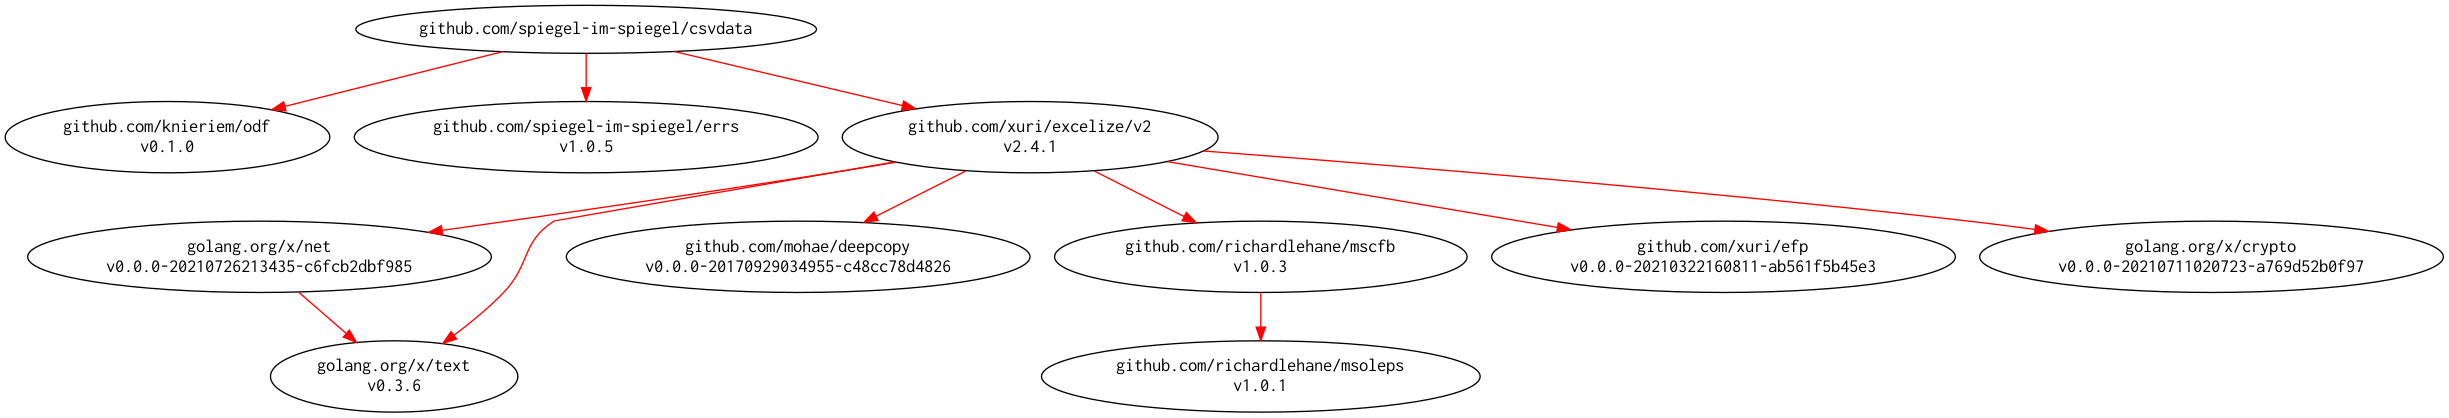
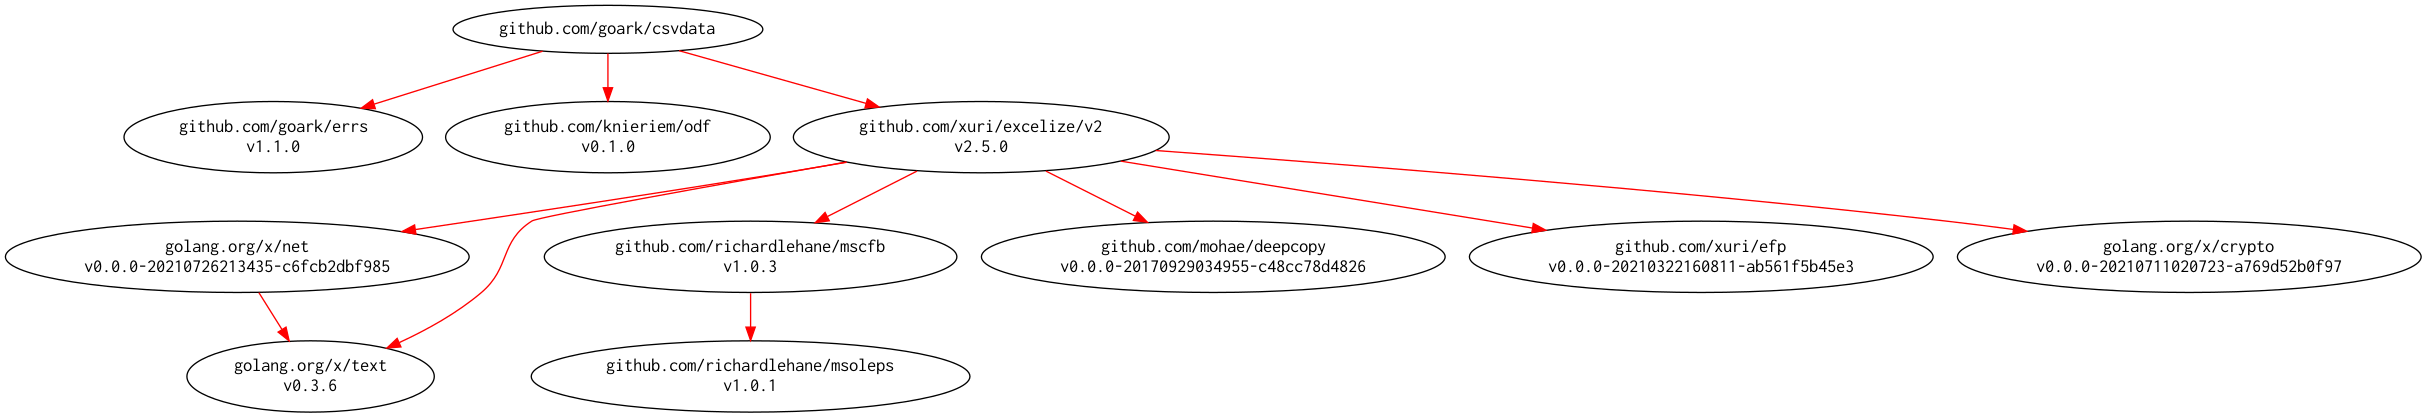
Migrated repository to github.com/goark/csvdata

diff --git a/calcdata/calcdata.go b/calcdata/calcdata.go
@@ -4,9 +4,9 @@ import (
 	"bytes"
 	"io"
 
+	"github.com/goark/csvdata"
+	"github.com/goark/errs"
 	"github.com/knieriem/odf/ods"
-	"github.com/spiegel-im-spiegel/csvdata"
-	"github.com/spiegel-im-spiegel/errs"
 )
 
 //Reader is class of LibreOffice Calc data

diff --git a/exceldata/example_test.go b/exceldata/example_test.go
@@ -3,8 +3,8 @@ package exceldata_test
 import (
 	"fmt"
 
-	"github.com/spiegel-im-spiegel/csvdata"
-	"github.com/spiegel-im-spiegel/csvdata/exceldata"
+	"github.com/goark/csvdata"
+	"github.com/goark/csvdata/exceldata"
 )
 
 func ExampleNew() {

diff --git a/calcdata/example_test.go b/calcdata/example_test.go
@@ -3,8 +3,8 @@ package calcdata_test
 import (
 	"fmt"
 
-	"github.com/spiegel-im-spiegel/csvdata"
-	"github.com/spiegel-im-spiegel/csvdata/calcdata"
+	"github.com/goark/csvdata"
+	"github.com/goark/csvdata/calcdata"
 )
 
 func ExampleNew() {

diff --git a/exceldata/exceldata.go b/exceldata/exceldata.go
@@ -3,8 +3,8 @@ package exceldata
 import (
 	"io"
 
-	"github.com/spiegel-im-spiegel/csvdata"
-	"github.com/spiegel-im-spiegel/errs"
+	"github.com/goark/csvdata"
+	"github.com/goark/errs"
 	"github.com/xuri/excelize/v2"
 )
 

diff --git a/rows.go b/rows.go
@@ -5,7 +5,7 @@ import (
 	"strconv"
 	"strings"
 
-	"github.com/spiegel-im-spiegel/errs"
+	"github.com/goark/errs"
 )
 
 //RowsReader is interface type for reading columns in a row.

diff --git a/example_test.go b/example_test.go
@@ -3,7 +3,7 @@ package csvdata_test
 import (
 	"fmt"
 
-	"github.com/spiegel-im-spiegel/csvdata"
+	"github.com/goark/csvdata"
 )
 
 func ExampleNew() {

diff --git a/testdata/sample.go b/testdata/sample.go
@@ -11,7 +11,7 @@ import (
 	"os"
 	"strings"
 
-	"github.com/spiegel-im-spiegel/csvdata"
+	"github.com/goark/csvdata"
 )
 
 //go:embed sample.csv

diff --git a/csvdata.go b/csvdata.go
@@ -5,7 +5,7 @@ import (
 	"io"
 	"os"
 
-	"github.com/spiegel-im-spiegel/errs"
+	"github.com/goark/errs"
 )
 
 //Reader is class of CSV reader

diff --git a/csvdata_test.go b/csvdata_test.go
@@ -8,7 +8,7 @@ import (
 	"testing"
 	"testing/iotest"
 
-	"github.com/spiegel-im-spiegel/csvdata"
+	"github.com/goark/csvdata"
 )
 
 const (

diff --git a/README.md b/README.md
@@ -1,16 +1,18 @@
 # [csvdata] -- Reading CSV Data
 
-[![check vulns](https://github.com/spiegel-im-spiegel/csvdata/workflows/vulns/badge.svg)](https://github.com/spiegel-im-spiegel/csvdata/actions)
-[![lint status](https://github.com/spiegel-im-spiegel/csvdata/workflows/lint/badge.svg)](https://github.com/spiegel-im-spiegel/csvdata/actions)
-[![GitHub license](https://img.shields.io/badge/license-Apache%202-blue.svg)](https://raw.githubusercontent.com/spiegel-im-spiegel/csvdata/master/LICENSE)
-[![GitHub release](https://img.shields.io/github/release/spiegel-im-spiegel/csvdata.svg)](https://github.com/spiegel-im-spiegel/csvdata/releases/latest)
+[![check vulns](https://github.com/goark/csvdata/workflows/vulns/badge.svg)](https://github.com/goark/csvdata/actions)
+[![lint status](https://github.com/goark/csvdata/workflows/lint/badge.svg)](https://github.com/goark/csvdata/actions)
+[![GitHub license](https://img.shields.io/badge/license-Apache%202-blue.svg)](https://raw.githubusercontent.com/goark/csvdata/master/LICENSE)
+[![GitHub release](https://img.shields.io/github/release/goark/csvdata.svg)](https://github.com/goark/csvdata/releases/latest)
 
 This package is required Go 1.16 or later.
+
+**Migrated repository to [github.com/goark/csvdata][csvdata]**
 
 ## Import
 
 ```go
-import "github.com/spiegel-im-spiegel/csvdata"
+import "github.com/goark/csvdata"
 ```
 
 ## Usage
@@ -21,7 +23,7 @@ package csvdata_test
 import (
 	"fmt"
 
-	"github.com/spiegel-im-spiegel/csvdata"
+	"github.com/goark/csvdata"
 )
 
 func ExampleNew() {
@@ -51,8 +53,8 @@ package exceldata_test
 import (
 	"fmt"
 
-	"github.com/spiegel-im-spiegel/csvdata"
-	"github.com/spiegel-im-spiegel/csvdata/exceldata"
+	"github.com/goark/csvdata"
+	"github.com/goark/csvdata/exceldata"
 )
 
 func ExampleNew() {
@@ -87,8 +89,8 @@ package calcdata_test
 import (
 	"fmt"
 
-	"github.com/spiegel-im-spiegel/csvdata"
-	"github.com/spiegel-im-spiegel/csvdata/calcdata"
+	"github.com/goark/csvdata"
+	"github.com/goark/csvdata/calcdata"
 )
 
 func ExampleNew() {
@@ -119,4 +121,4 @@ func ExampleNew() {
 
 [![dependency.png](./dependency.png)](./dependency.png)
 
-[csvdata]: https://github.com/spiegel-im-spiegel/csvdata "spiegel-im-spiegel/csvdata: Reading CSV Data"
+[csvdata]: https://github.com/goark/csvdata "goark/csvdata: Reading CSV Data"
